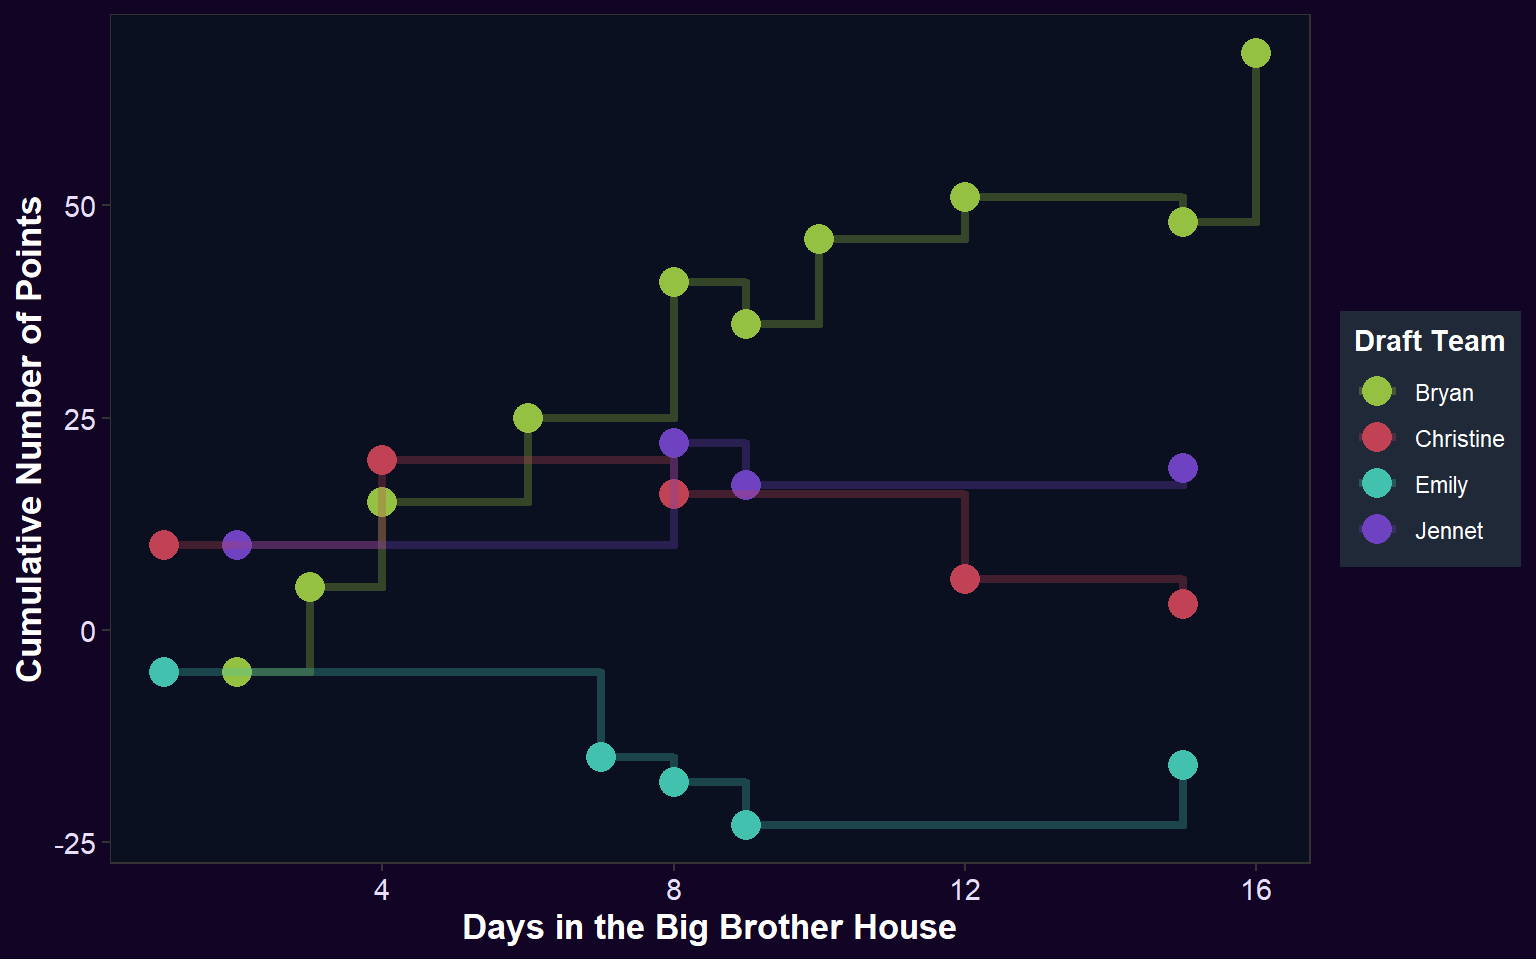
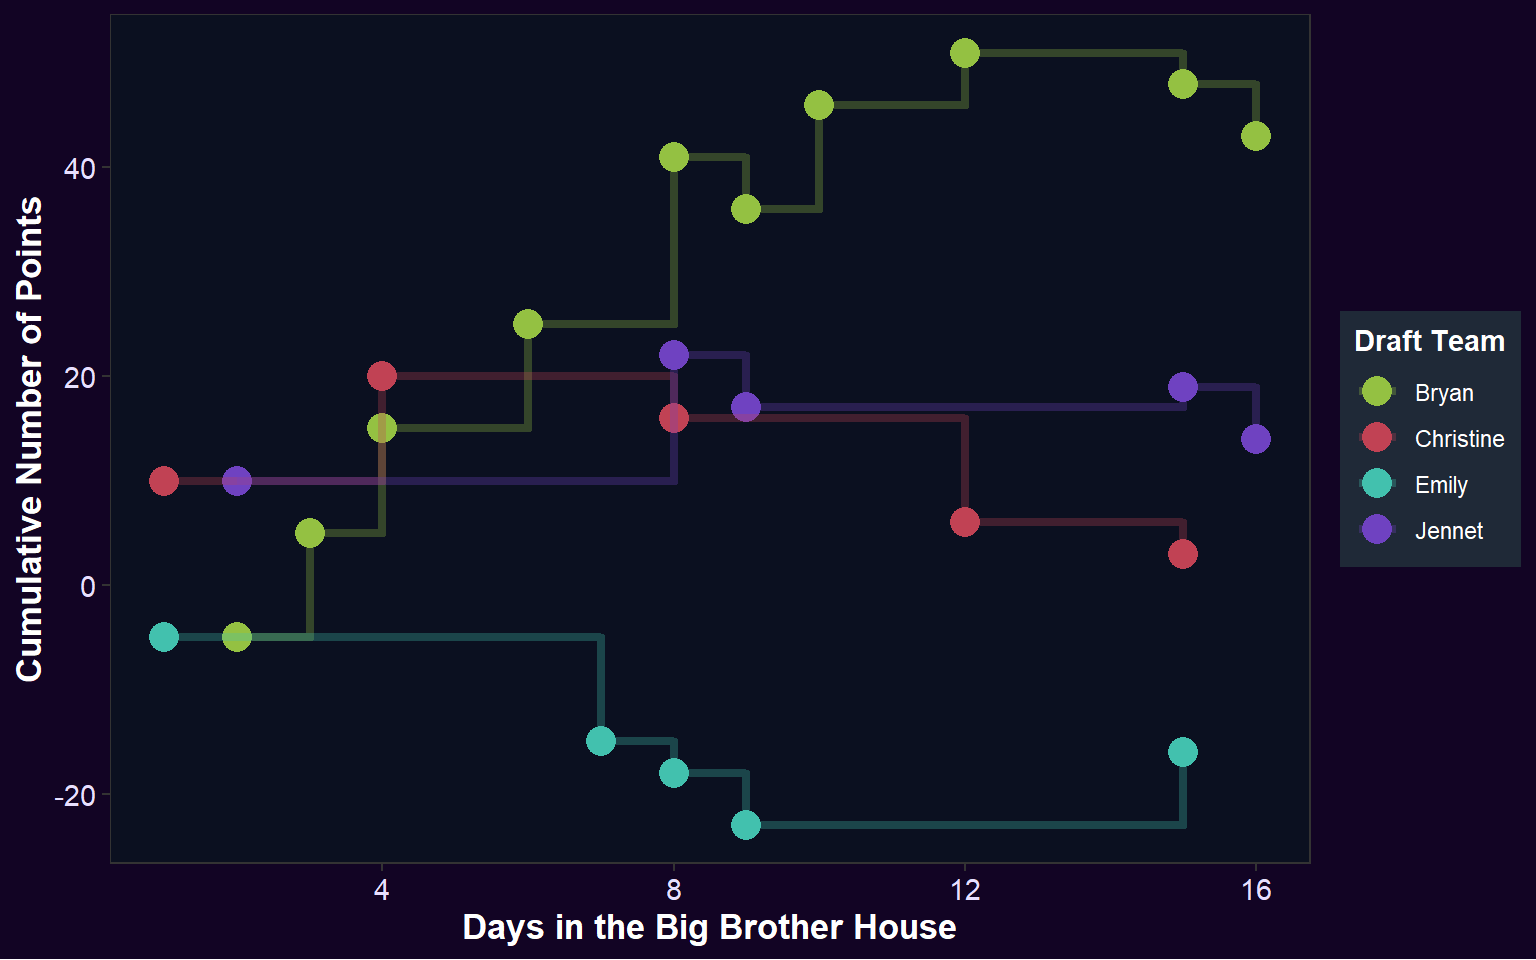
week 3 noms

diff --git a/index.html b/index.html
@@ -120,7 +120,7 @@ grid-auto-rows: minmax(0, 1fr);">
 <td style="text-align: right;">2</td>
 <td style="text-align: right;">2</td>
 <td style="text-align: right;">0</td>
-<td style="text-align: right;">2</td>
+<td style="text-align: right;">4</td>
 </tr>
 <tr class="even">
 <td style="text-align: left;">Christine</td>
@@ -141,7 +141,7 @@ grid-auto-rows: minmax(0, 1fr);">
 <td style="text-align: right;">1</td>
 <td style="text-align: right;">0</td>
 <td style="text-align: right;">1</td>
-<td style="text-align: right;">3</td>
+<td style="text-align: right;">4</td>
 </tr>
 </tbody>
 </table>
@@ -733,6 +733,46 @@ grid-auto-rows: minmax(0, 1fr);">
 <td style="text-align: left;">Bryan</td>
 <td style="text-align: left;">Wins HOH</td>
 <td style="text-align: right;">20</td>
+</tr>
+<tr class="even">
+<td style="text-align: left;">July 24 2026</td>
+<td style="text-align: right;">3</td>
+<td style="text-align: left;">Devens</td>
+<td style="text-align: left;">Bryan</td>
+<td style="text-align: left;">Wins a Power</td>
+<td style="text-align: right;">5</td>
+</tr>
+<tr class="odd">
+<td style="text-align: left;">July 24 2026</td>
+<td style="text-align: right;">3</td>
+<td style="text-align: left;">Devens</td>
+<td style="text-align: left;">Bryan</td>
+<td style="text-align: left;">Exposes the power</td>
+<td style="text-align: right;">-20</td>
+</tr>
+<tr class="even">
+<td style="text-align: left;">July 24 2026</td>
+<td style="text-align: right;">3</td>
+<td style="text-align: left;">LaTrice</td>
+<td style="text-align: left;">Jennet</td>
+<td style="text-align: left;">Gets Nominated</td>
+<td style="text-align: right;">-5</td>
+</tr>
+<tr class="odd">
+<td style="text-align: left;">July 24 2026</td>
+<td style="text-align: right;">3</td>
+<td style="text-align: left;">Lyric</td>
+<td style="text-align: left;">Bryan</td>
+<td style="text-align: left;">Gets Nominated</td>
+<td style="text-align: right;">-5</td>
+</tr>
+<tr class="even">
+<td style="text-align: left;">July 24 2026</td>
+<td style="text-align: right;">3</td>
+<td style="text-align: left;">Mallory</td>
+<td style="text-align: left;">Bryan</td>
+<td style="text-align: left;">Gets Nominated</td>
+<td style="text-align: right;">-5</td>
 </tr>
 </tbody>
 </table>
